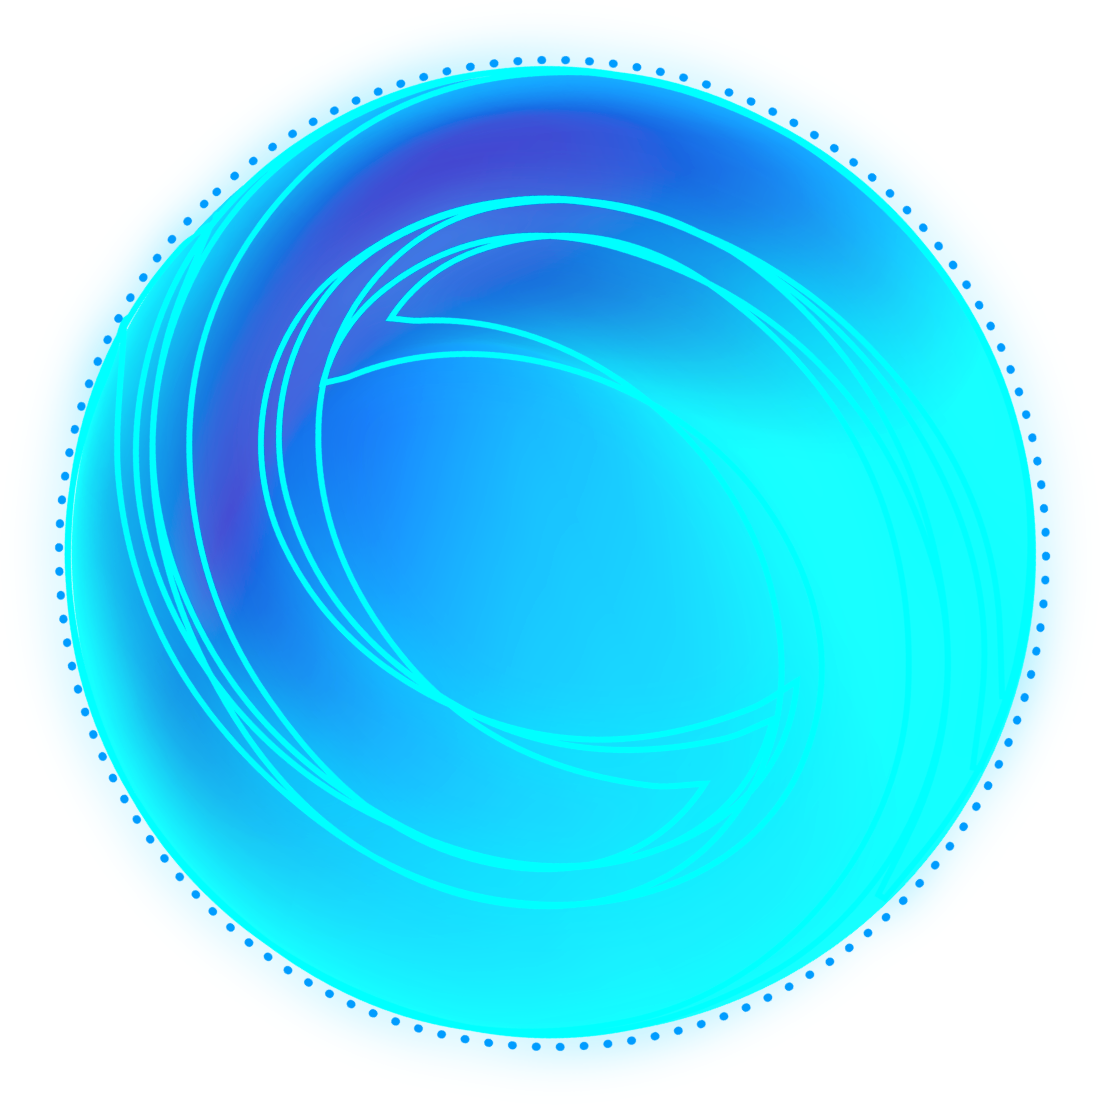
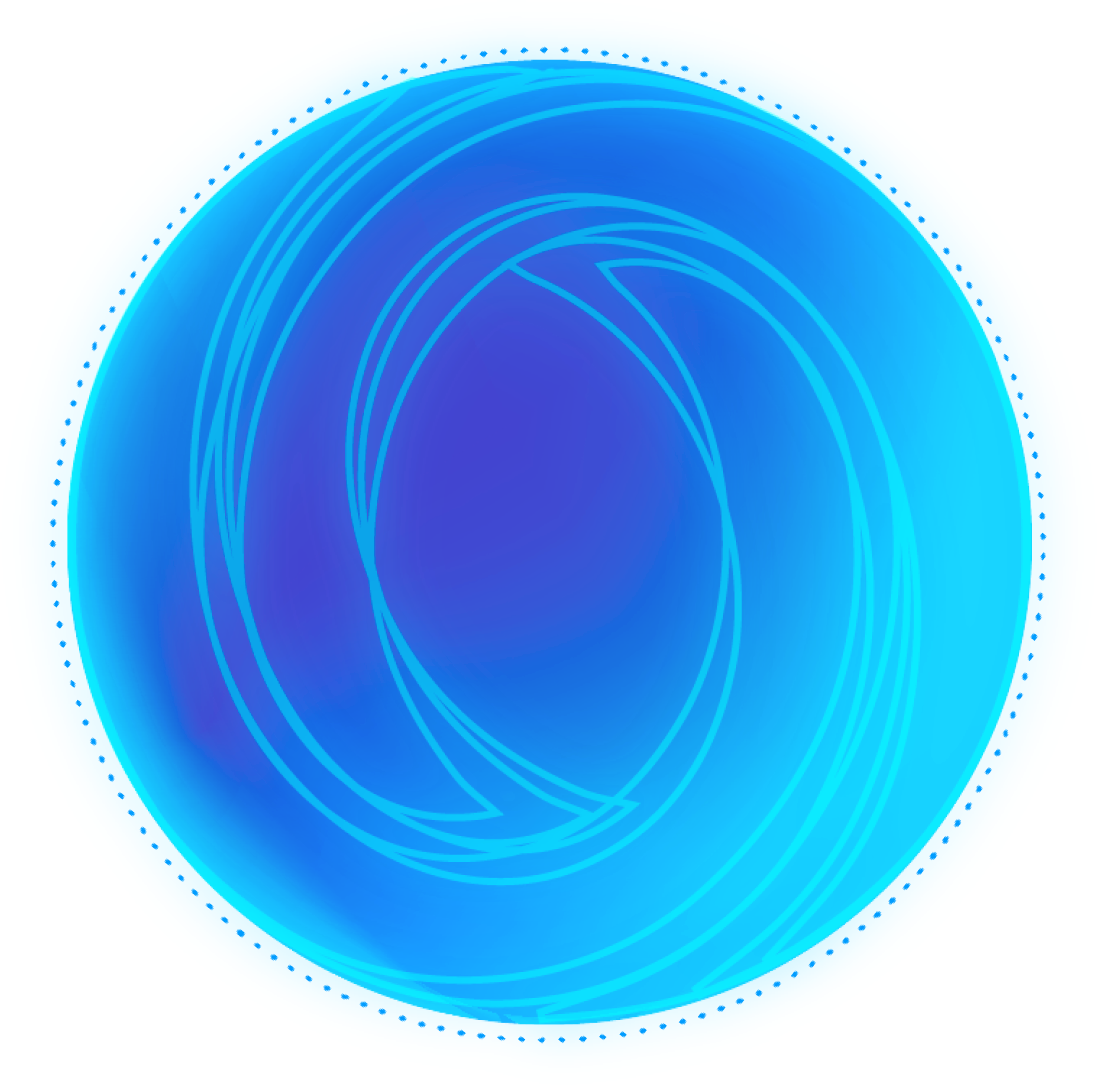
Update wheel

diff --git a/oasisswag/frontend/src/components/Wheel/index.js b/oasisswag/frontend/src/components/Wheel/index.js
@@ -4,6 +4,7 @@ import wheelOuter from './images/wheel-outer.svg'
 import wheelSpinText from './images/wheel-spin-text.svg'
 import wheelSpinFailedText from './images/wheel-failed-text.svg'
 import wheelSpinWonText from './images/wheel-won-text.svg'
+import wheelSpinWonCircle from './images/wheel-spin-won-circle.svg'
 import classes from "./index.module.css"
 import {useWeb3} from "../../providers/Web3Provider";
 import {InfoMessage} from "../InfoMessage";
@@ -27,33 +28,40 @@ export const Wheel = () => {
   }
 
   useEffect(() => {
-    if(swag || networkError) {
+    if (swag || networkError) {
       endSpin()
     }
   }, [swag, networkError])
 
-  return (
-    <div className={classes.wheelContainer}>
-      <div className={classes.wheel} onClick={startSpin}>
-        <img draggable={false}
-             className={[classes.wheelOuter, ...[spin ? [classes.animateOuter] : []]].join(' ')}
-             src={wheelOuter} alt="Wheel lines"/>
-        <img draggable={false} className={[classes.wheelInner, ...[spin ? [classes.animateInner] : []]].join(' ')}
-             src={wheel}
-             alt="Wheel"/>
-        {selectedAddress && !networkError && !swag && <img draggable={false}
-                                 className={[classes.wheelText, ...[spin ? [classes.fadeOut] : [classes.fadeIn]]].join(' ')}
-                                 src={wheelSpinText} alt="Click to spin"/>}
-        {selectedAddress && networkError && <img draggable={false}
-                                 className={[classes.wheelText, classes.fadeIn].join(' ')}
-                                 src={wheelSpinFailedText} alt="failed."/>}
-        {selectedAddress && swag && <img draggable={false}
-                                 className={[classes.wheelText, classes.fadeIn].join(' ')}
-                                 src={wheelSpinWonText} alt="won!"/>}
-      </div>
-
-      {selectedAddress && networkError && <ErrorMessage>{networkError}!</ErrorMessage>}
-      {selectedAddress && swag && <InfoMessage>Congratulations, you won {swag.name}!</InfoMessage>}
+  return (<div className={classes.wheelContainer}>
+    <div className={classes.wheel} onClick={startSpin}>
+      <img draggable={false}
+           className={[classes.wheelOuter, ...[spin ? [classes.animateOuter] : []]].join(' ')}
+           src={wheelOuter} alt="Wheel lines"/>
+      <img draggable={false} className={[classes.wheelInner, ...[spin ? [classes.animateInner] : []]].join(' ')}
+           src={wheel}
+           alt="Wheel"/>
+      {selectedAddress && !networkError && !swag && <img draggable={false}
+                                                         className={[classes.wheelText, ...[spin ? [classes.fadeOut] : [classes.fadeIn]]].join(' ')}
+                                                         src={wheelSpinText} alt="Click to spin"/>}
+      {selectedAddress && networkError && <img draggable={false}
+                                               className={[classes.wheelText, classes.fadeIn].join(' ')}
+                                               src={wheelSpinFailedText} alt="failed."/>}
+      {selectedAddress && swag &&
+        <div className={[classes.wheelText, classes.fadeIn].join(' ')}>
+          <div className={classes.wheelWonItemContainer}>
+            <img className={classes.wheelWonItem} draggable={false} src={wheelSpinWonCircle} alt={swag.name}/>
+            <img className={classes.wheelWonItem} draggable={false} src={swag.image} alt={swag.name}/>
+          </div>
+          <img  className={classes.wheelWonItemText} draggable={false} src={wheelSpinWonText} alt="won!"/>
+        </div>
+      }
     </div>
-  )
+
+    {selectedAddress && networkError && <ErrorMessage>{networkError}!</ErrorMessage>}
+    {selectedAddress && swag && <>
+      <InfoMessage>Congratulations, you won {swag.name}!</InfoMessage>
+      <p className={classes.collectMessage}>Please collect it at our Oasis booth (923) at Consensus</p>
+    </>}
+  </div>)
 }

diff --git a/oasisswag/frontend/src/components/Wheel/index.module.css b/oasisswag/frontend/src/components/Wheel/index.module.css
@@ -1,7 +1,7 @@
 .wheelContainer {
     width: 100%;
     padding: 20px;
-    margin-top: -40px;
+    margin-top: -15%;
     overflow: hidden;
 }
 
@@ -10,6 +10,7 @@
     width: 100%;
     padding-top: 100%;
     cursor: pointer;
+    margin-bottom: 40px;
 }
 
 .wheelOuter {
@@ -41,8 +42,38 @@
     left: 50%;
     top: 50%;
     transform: translate3d(-50%, -50%, 0);
-    width: 100px;
+    width: 50%;
     user-select: none;
+}
+
+.wheelWonItemContainer {
+    position: relative;
+    height: 150px;
+    margin: 0 auto;
+}
+
+.wheelWonItem {
+    position: absolute;
+    left: 50%;
+    top: 50%;
+    transform: translate3d(-50%, -50%, 0);
+    user-select: none;
+}
+
+.wheelWonItemText {
+    display: block;
+    width: 75%;
+    margin: 0 auto;
+}
+
+.collectMessage {
+    font-family: 'Euclid Circular B', sans-serif;
+    font-style: normal;
+    font-weight: 400;
+    font-size: 22px;
+    line-height: 130%;
+    text-align: center;
+    color: var(--gray-dark);
 }
 
 .fadeIn {
@@ -78,6 +109,6 @@
 @media (min-width: 768px) {
     .wheelContainer {
         width: 50%;
-        margin: -140px auto 0;
+        margin: -10% auto 0;
     }
 }

diff --git a/oasisswag/frontend/public/index.html b/oasisswag/frontend/public/index.html
@@ -23,7 +23,7 @@
       work correctly both with client-side routing and a non-root public URL.
       Learn how to configure a non-root public URL by running `npm run build`.
     -->
-    <title>Oasis Swag lotter</title>
+    <title>Oasis Swag Lottery</title>
   </head>
   <body>
     <noscript>You need to enable JavaScript to run this app.</noscript>

diff --git a/oasisswag/frontend/src/providers/Web3Provider.js b/oasisswag/frontend/src/providers/Web3Provider.js
@@ -270,8 +270,6 @@ export const Web3ContextProvider = ({children}) => {
 
     await _initialize(selectedAddress);
 
-    // _updateSwagData();
-
     // We reinitialize it whenever the user changes their account.
     window.ethereum.on("accountsChanged", ([newAddress]) => {
       _stopPollingData();

diff --git a/oasisswag/frontend/src/components/Header/index.module.css b/oasisswag/frontend/src/components/Header/index.module.css
@@ -2,7 +2,7 @@
     position: relative;
     display: flex;
     flex-direction: column;
-    min-height: 500px;
+    min-height: 600px;
     padding: 20px;
     overflow: hidden;
 }
